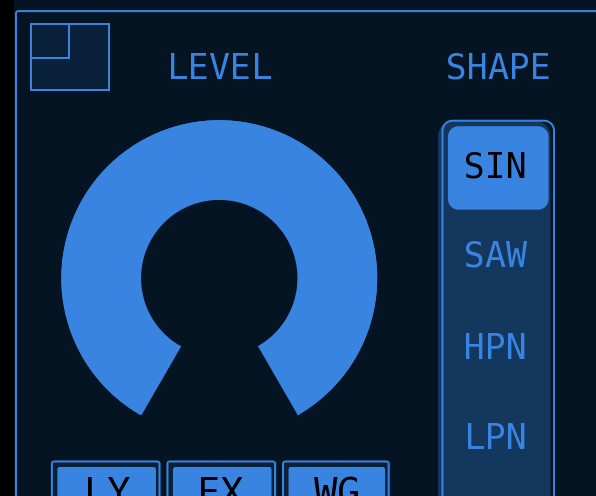
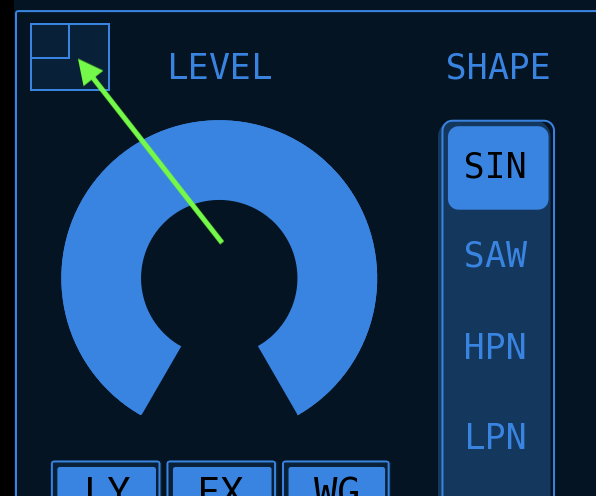
Updated readme

diff --git a/Readme.md b/Readme.md
@@ -270,6 +270,9 @@ This is to enable or disable the Volca's pitch quantisation (QPI). When disabled
 
 In Korg's wisdom they gave us just one Pitch Q control per Part so if you enable/disable it in one Layer, it's also enabled/disabled in the other Layer as a visual reminder that Pitch Q affects both Layers.
 
+>[!tip]
+>When you touch or move a control, it's name will be temporarily replaced with the current value of that control. If you have Pitch Quantization enabled (QPI) then the PITCH slider will display the current MIDI note instead of a numerical value.
+
 ### Reloading Part
 
 <p align="center">